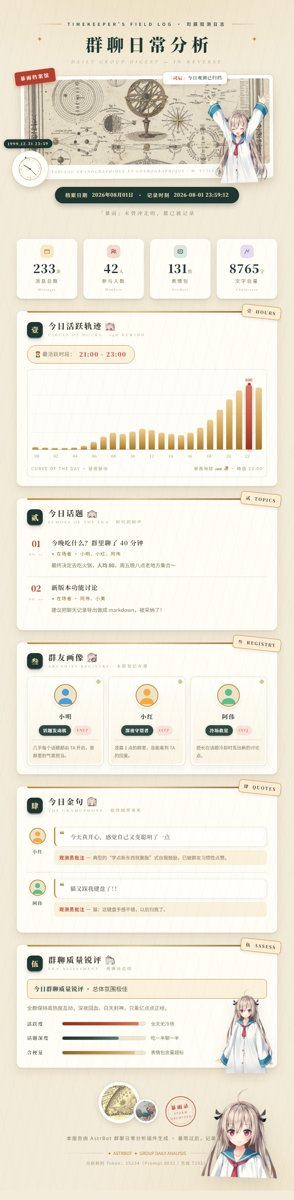
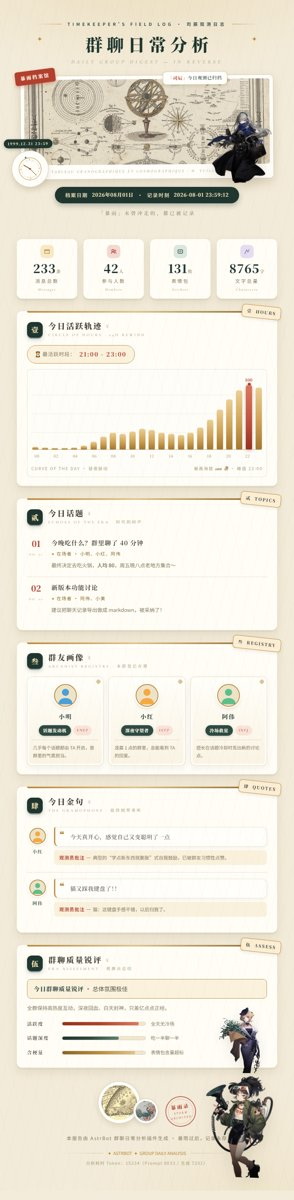
feat(gda_reverse_1999): 人物立绘换成 1999 官方角色（官网直链）
- 头图：维尔汀 img/role/2.png（官网角色立绘，透明底，1024+px）
- 质量锐评卡：十四行诗 img/role/3.png
- 页脚探底：绿衣神秘学家 img/role/4.png
- 各区标题徽记：官方蝴蝶 img/role/1t.png（替换亚托莉表情贴纸）
- 素材来源官网 re.bluepoch.com 静态资源（已验证 200 可热链），README 声明自用
- 移除 Atri 镜像立绘引用与本地副本

diff --git a/gda_reverse_1999/image_template.html b/gda_reverse_1999/image_template.html
@@ -1191,7 +1191,7 @@
                     </svg>
                 </div>
                 <div class="art-frame"></div>
-                <img class="hero-character" src="{{ t2i_atri_font_mirror }}/file/1775130626446_1774881312214_atri1.webp" alt="立绘">
+                <img class="hero-character" src="https://re.bluepoch.com/home/img/role/2.png" alt="维尔汀">
                 <div class="art-caption">TABLEAU URANOGRAPHIQUE ET COSMOGRAPHIQUE · M. VUILLEMIN, 1852</div>
             </div>
 
@@ -1243,7 +1243,7 @@
             <div class="sec-head">
                 <div class="sec-no">壹</div>
                 <div>
-                    <div class="sec-title">今日活跃轨迹<img class="sec-emoji" src="{{ t2i_atri_font_mirror }}/file/1775130605165_1774881270686_爱心.webp" alt=""></div>
+                    <div class="sec-title">今日活跃轨迹<img class="sec-emoji" src="https://re.bluepoch.com/home/img/role/1t.png" alt=""></div>
                     <div class="sec-sub">CIRCLE OF HOURS &middot; 24H REWIND</div>
                 </div>
             </div>
@@ -1275,7 +1275,7 @@
 
         <!-- 页脚 -->
         <div class="footer">
-            <div class="deco-char avoid-break"><img src="{{ t2i_atri_font_mirror }}/file/1775130613783_1774881310058_atri3.webp" alt="立绘"></div>
+            <div class="deco-char avoid-break"><img src="https://re.bluepoch.com/home/img/role/4.png" alt="角色立绘"></div>
             <div class="footer-art avoid-break"><div class="art-disc"></div></div><div class="footer-art2 avoid-break"><div class="art-disc2"></div></div><div class="seal">暴雨录<span>STORM ARCHIVED</span></div>
             <div class="footer-line">本报告由 AstrBot 群聊日常分析插件生成 · 暴雨过后，记录永存</div>
             <div class="footer-orn">✦ &nbsp;ASTRBOT &nbsp;✦&nbsp; GROUP DAILY ANALYSIS</div>

diff --git a/gda_reverse_1999/html_template.html b/gda_reverse_1999/html_template.html
@@ -1250,7 +1250,7 @@
                     </svg>
                 </div>
                 <div class="art-frame"></div>
-                <img class="hero-character" src="{{ t2i_atri_font_mirror }}/file/1775130626446_1774881312214_atri1.webp" alt="立绘">
+                <img class="hero-character" src="https://re.bluepoch.com/home/img/role/2.png" alt="维尔汀">
                 <div class="art-caption">TABLEAU URANOGRAPHIQUE ET COSMOGRAPHIQUE · M. VUILLEMIN, 1852</div>
             </div>
 
@@ -1302,7 +1302,7 @@
             <div class="sec-head">
                 <div class="sec-no">壹</div>
                 <div>
-                    <div class="sec-title">今日活跃轨迹<img class="sec-emoji" src="{{ t2i_atri_font_mirror }}/file/1775130605165_1774881270686_爱心.webp" alt=""></div>
+                    <div class="sec-title">今日活跃轨迹<img class="sec-emoji" src="https://re.bluepoch.com/home/img/role/1t.png" alt=""></div>
                     <div class="sec-sub">CIRCLE OF HOURS &middot; 24H REWIND</div>
                 </div>
             </div>
@@ -1334,7 +1334,7 @@
 
         <!-- 页脚 -->
         <div class="footer">
-            <div class="deco-char avoid-break"><img src="{{ t2i_atri_font_mirror }}/file/1775130613783_1774881310058_atri3.webp" alt="立绘"></div>
+            <div class="deco-char avoid-break"><img src="https://re.bluepoch.com/home/img/role/4.png" alt="角色立绘"></div>
             <div class="footer-badges avoid-break">
                 <div class="footer-art"><div class="art-disc"></div></div>
                 <div class="footer-art2"><div class="art-disc2"></div></div>

diff --git a/gda_reverse_1999/chat_quality_item.html b/gda_reverse_1999/chat_quality_item.html
@@ -3,11 +3,11 @@
 <div class="sec-head">
     <div class="sec-no">伍</div>
     <div>
-        <div class="sec-title">群聊质量锐评<img class="sec-emoji" src="{{ t2i_atri_font_mirror }}/file/1775130581843_1774881262835_疑惑.webp" alt=""></div>
+        <div class="sec-title">群聊质量锐评<img class="sec-emoji" src="https://re.bluepoch.com/home/img/role/1t.png" alt=""></div>
         <div class="sec-sub">ERA ASSESSMENT &middot; 观测员总结</div>
     </div>
 </div>
-<img class="block-char" src="{{ t2i_atri_font_mirror }}/file/1775130623112_1774881319340_atri4.webp" alt="" {% if hide_user_names %}style="opacity: 0.35;"{% endif %}>
+<img class="block-char" src="https://re.bluepoch.com/home/img/role/3.png" alt="" {% if hide_user_names %}style="opacity: 0.35;"{% endif %}>
 <div class="quality-summary head"><b>{{ title }}</b>{% if subtitle %} · {{ subtitle }}{% endif %}</div>
 {% endif %}
 {% if summary %}

diff --git a/gda_reverse_1999/user_title_item.html b/gda_reverse_1999/user_title_item.html
@@ -3,7 +3,7 @@
 <div class="sec-head">
     <div class="sec-no">叁</div>
     <div>
-        <div class="sec-title">群友画像<img class="sec-emoji" src="{{ t2i_atri_font_mirror }}/file/1775130585446_1774881263342_观察.webp" alt=""></div>
+        <div class="sec-title">群友画像<img class="sec-emoji" src="https://re.bluepoch.com/home/img/role/1t.png" alt=""></div>
         <div class="sec-sub">ARCANIST REGISTRY &middot; 本群登记在册</div>
     </div>
 </div>

diff --git a/gda_reverse_1999/quote_item.html b/gda_reverse_1999/quote_item.html
@@ -3,7 +3,7 @@
 <div class="sec-head">
     <div class="sec-no">肆</div>
     <div>
-        <div class="sec-title">今日金句<img class="sec-emoji" src="{{ t2i_atri_font_mirror }}/file/1775130598778_1774881267181_得意.webp" alt=""></div>
+        <div class="sec-title">今日金句<img class="sec-emoji" src="https://re.bluepoch.com/home/img/role/1t.png" alt=""></div>
         <div class="sec-sub">THE GRAMOPHONE &middot; 值得倒带重听</div>
     </div>
 </div>

diff --git a/gda_reverse_1999/topic_item.html b/gda_reverse_1999/topic_item.html
@@ -3,7 +3,7 @@
 <div class="sec-head">
     <div class="sec-no">贰</div>
     <div>
-        <div class="sec-title">今日话题<img class="sec-emoji" src="{{ t2i_atri_font_mirror }}/file/1775130600453_1774881268554_可爱.webp" alt=""></div>
+        <div class="sec-title">今日话题<img class="sec-emoji" src="https://re.bluepoch.com/home/img/role/1t.png" alt=""></div>
         <div class="sec-sub">ECHOES OF THE ERA &middot; 时代的回声</div>
     </div>
 </div>

diff --git a/generate_preview.py b/generate_preview.py
@@ -170,14 +170,10 @@ _ART_URLS = {
     ("https://upload.wikimedia.org/wikipedia/commons/thumb/8/84/Johan_Doppelmayr%27s_celestial_chart_of_Pavo_and_Indus_"
      "%28cropped%29.jpg/1280px-Johan_Doppelmayr%27s_celestial_chart_of_Pavo_and_Indus_%28cropped%29.jpg"):
         _ART_DIR / "Doppelmayr-Pavo-1280px.jpg",
-    _m("1775130626446_1774881312214_atri1.webp"): _ART_DIR / "atri1.webp",
-    _m("1775130613783_1774881310058_atri3.webp"): _ART_DIR / "atri3.webp",
-    _m("1775130623112_1774881319340_atri4.webp"): _ART_DIR / "atri4.webp",
-    _m("1775130600453_1774881268554_可爱.webp"): _ART_DIR / "at_kaiai.webp",
-    _m("1775130585446_1774881263342_观察.webp"): _ART_DIR / "at_guancha.webp",
-    _m("1775130581843_1774881262835_疑惑.webp"): _ART_DIR / "at_yihuo.webp",
-    _m("1775130598778_1774881267181_得意.webp"): _ART_DIR / "at_deyi.webp",
-    _m("1775130605165_1774881270686_爱心.webp"): _ART_DIR / "at_aixin.webp",
+    "https://re.bluepoch.com/home/img/role/2.png": _ART_DIR / "Vertin-role2.png",
+    "https://re.bluepoch.com/home/img/role/3.png": _ART_DIR / "Sonetto-role3.png",
+    "https://re.bluepoch.com/home/img/role/4.png": _ART_DIR / "Mystic-role4.png",
+    "https://re.bluepoch.com/home/img/role/1t.png": _ART_DIR / "Re1999-butterfly.png",
 }
 for url, local in _ART_URLS.items():
     if local.is_file() and url in preview_html:

diff --git a/README.md b/README.md
@@ -164,13 +164,15 @@ python generate_preview.py [模板名]     # 缺省为 gda_reverse_1999
 - **Doppelmayr 1730 孔雀座星图**（PD）—— 页脚第二枚小纪念章（`footer-art2`）：
   `https://upload.wikimedia.org/wikipedia/commons/thumb/8/84/Johan_Doppelmayr%27s_celestial_chart_of_Pavo_and_Indus_%28cropped%29.jpg/1280px-Johan_Doppelmayr%27s_celestial_chart_of_Pavo_and_Indus_%28cropped%29.jpg`
 
-> **二次元立绘（自用素材）**：人物立绘与表情贴纸来自 **Atri 渲染服务官方文件镜像**
-> （`t2i_atri_font_mirror`，默认 `https://tc.ciallo.ccwu.cc`，与内置 ATRI 模板同源）：
-> - `atri1.webp`（头图欢呼立绘）/ `atri3.webp`(页脚探底) / `atri4.webp`（质量锐评卡小立绘）
-> - `可爱/观察/疑惑/得意/爱心.webp`（各区标题表情贴纸）
-> 以上素材版权归原权利方所有，本仓库**仅供自用与演示**；如用于商业分发，
-> 请替换为已获得授权的立绘（README 声明：自用免责）。
-> 预览时 `generate_preview.py` 会把镜像地址替换为 `assets/<模板名>/art/` 下的本地副本。
+> **官方人物立绘（官网直链）**：角色立绘与徽记来自《重返未来：1999》官方网站
+> `https://re.bluepoch.com` 的静态资源（角色展示图 `img/role/N.png`，已验证可热链、无防盗链）：
+> - **维尔汀** `img/role/2.png`（头图主角「司辰」，1100+px 透明底立绘）
+> - **十四行诗** `img/role/3.png`（质量锐评卡小立绘）
+> - **绿衣神秘学家** `img/role/4.png`（页脚探底立绘）
+> - **官方蝴蝶徽记** `img/role/1t.png`（各区标题表情贴纸）
+> 以上素材版权归深蓝互动（Bluepoch）所有，本仓库**仅供自用与演示**；如用于商业分发，
+> 请替换为已获得授权的素材。预览时 `generate_preview.py` 会把官网地址
+> 替换为 `assets/<模板名>/art/` 下的本地副本。
 
 **人物用法**（对齐内置 ATRI / BlueArchive 模板的手法）：主角立绘以 `mix-blend-mode: multiply`
 直接「印」在羊皮纸卡上（版画白底与纸底融合，无需抠图），配 `filter: grayscale+sepia` 统一色调；
